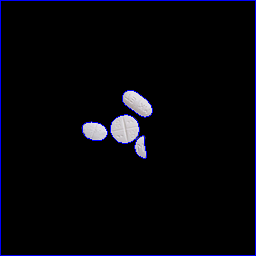
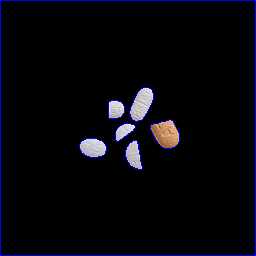
10/12

Changed region(s): [[0.3125, 0.3438, 0.7188, 0.6875]]

diff --git a/watershed.py b/watershed.py
@@ -14,7 +14,7 @@ ret, thresh = cv2.threshold(gray,0,255,cv2.THRESH_BINARY_INV+cv2.THRESH_OTSU)
 
 #Morphology의 opening, closing을 통해서 노이즈나 Hole제거
 kernel = np.ones((3,3),np.uint8)
-opening = cv2.morphologyEx(thresh,cv2.MORPH_OPEN,kernel,iterations=2)
+opening = cv2.morphologyEx(thresh,cv2.MORPH_OPEN,kernel,iterations=1)
 
 # dilate를 통해서 확실한 Backgroud
 sure_bg = cv2.dilate(opening,kernel,iterations=3)
@@ -39,12 +39,12 @@ markers = cv2.watershed(img,markers)
 img[markers == -1] = [255,0,0]
 
 
-images = [gray,thresh,sure_bg,  dist_transform, sure_fg, unknown, markers, img]
+images = [gray, thresh, sure_bg, dist_transform, sure_fg, unknown, markers, img]
 titles = ['Gray','Binary','Sure BG','Distance','Sure FG','Unknown','Markers','Result']
 
 for i in range(len(images)):
     plt.subplot(2,4,i+1),plt.imshow(images[i]),plt.title(titles[i]),plt.xticks([]),plt.yticks([])
 
-cv2.imwrite('result_watershed_2.png',img)
+cv2.imwrite('result_watershed_4.png',img)
 
 plt.show()
